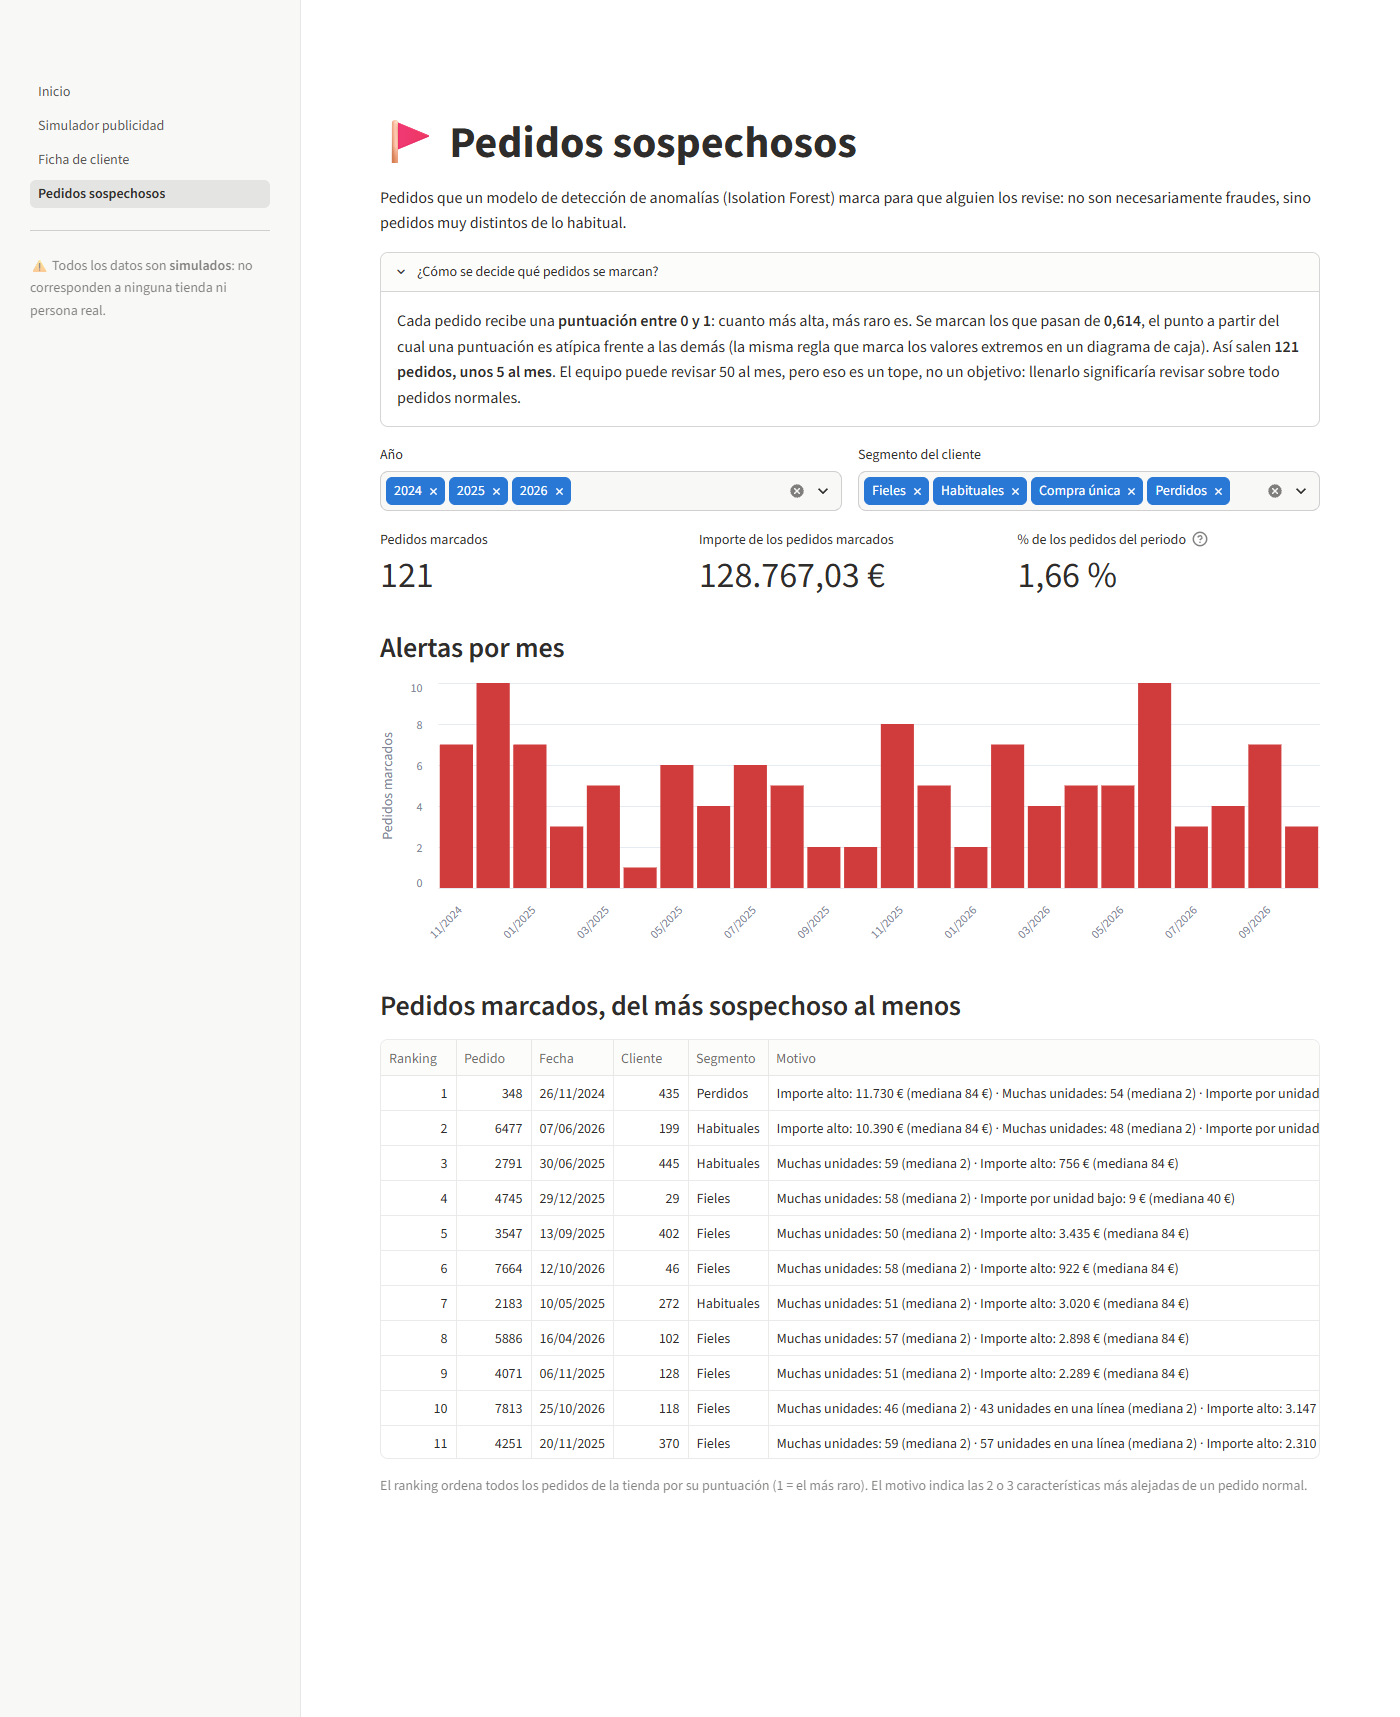
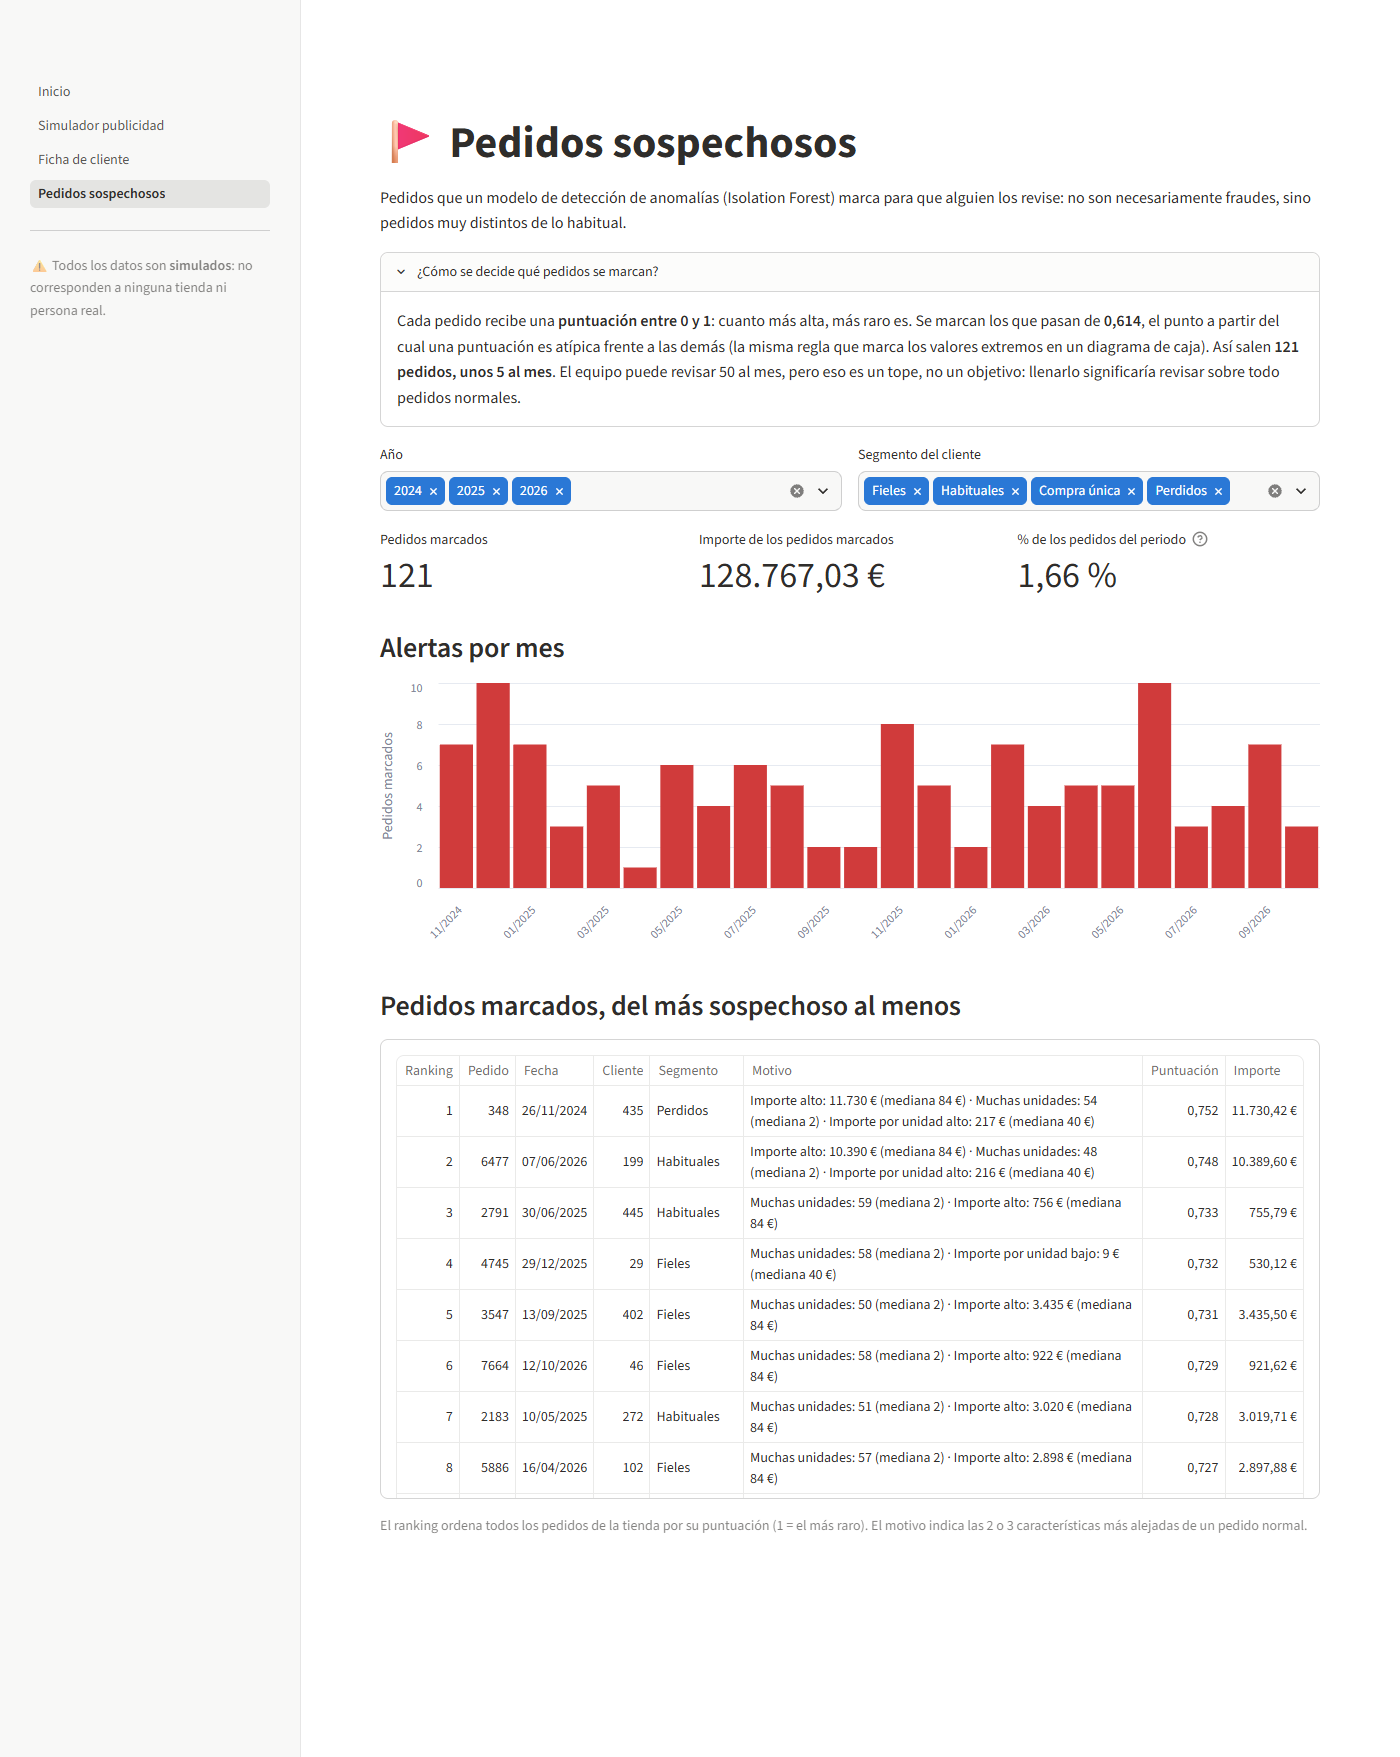
fix: el motivo de las alertas se lee completo, sin desplazar la tabla en horizontal
st.dataframe (1.67) no parte el texto de una celda ni con TextColumn(width="large")
ni con row_height: se usa st.table dentro de un contenedor de altura fija.

diff --git a/app/pages/3_Pedidos_sospechosos.py b/app/pages/3_Pedidos_sospechosos.py
@@ -76,13 +76,16 @@ tabla = pd.DataFrame({
     "Puntuación": marcados["puntuacion"],
     "Importe": marcados["importe_total"],
 })
-st.dataframe(
-    tabla.style.format({"Fecha": u.fecha, "Puntuación": lambda v: u.numero(v, 3), "Importe": u.euros}),
-    hide_index=True, width="stretch", height=420,
-    # El motivo es lo que más interesa leer: las columnas de números se estrechan para dejarle sitio
-    column_config={"Motivo": st.column_config.TextColumn(width=560),
-                   **{c: st.column_config.Column(width="small")
-                      for c in ["Ranking", "Pedido", "Cliente", "Puntuación"]}},
-)
+# El motivo es lo que más interesa leer y llega a ~130 caracteres. En st.dataframe (Streamlit 1.67)
+# el texto de una celda no se parte en varias líneas: se corta o obliga a desplazar la tabla en
+# horizontal. st.table es una tabla HTML normal, que sí parte el texto. Para que las 121 filas no
+# alarguen la página, va dentro de un contenedor de altura fija con desplazamiento vertical.
+with st.container(height=460):
+    st.table(
+        # Espacio de no separación antes del "€" para que el importe no se parta en dos líneas
+        tabla.style.format({"Fecha": u.fecha, "Puntuación": lambda v: u.numero(v, 3),
+                            "Importe": lambda v: u.euros(v).replace(" ", "\u00a0")}),
+        hide_index=True,
+    )
 st.caption("El ranking ordena todos los pedidos de la tienda por su puntuación (1 = el más raro). "
            "El motivo indica las 2 o 3 características más alejadas de un pedido normal.")

diff --git a/tests/test_app.py b/tests/test_app.py
@@ -137,8 +137,8 @@ def test_ficha_otros_clientes():
 def test_pedidos_sospechosos():
     app = abrir("pages/3_Pedidos_sospechosos.py")
     assert metricas(app)["Pedidos marcados"] == "121"
-    assert len(app.dataframe[0].value) == 121
-    assert app.dataframe[0].value.iloc[0]["Pedido"] == 348  # el nº 1 del ranking
+    assert len(app.table[0].value) == 121
+    assert app.table[0].value.iloc[0]["Pedido"] == 348  # el nº 1 del ranking
 
     # Filtros: solo 2026 y solo Fieles
     app.multiselect[0].set_value([2026]).run()
@@ -204,7 +204,7 @@ def texto_completo(app: AppTest) -> str:
     def recorrer(nodo):
         if getattr(nodo, "proto", None) is not None:
             partes.append(MessageToString(nodo.proto, as_utf8=True))
-        if type(nodo).__name__ == "Dataframe":
+        if type(nodo).__name__ in ("Dataframe", "Table"):
             partes.append(nodo.value.to_string())
         hijos = getattr(nodo, "children", None) or {}
         for hijo in (hijos.values() if isinstance(hijos, dict) else hijos):
